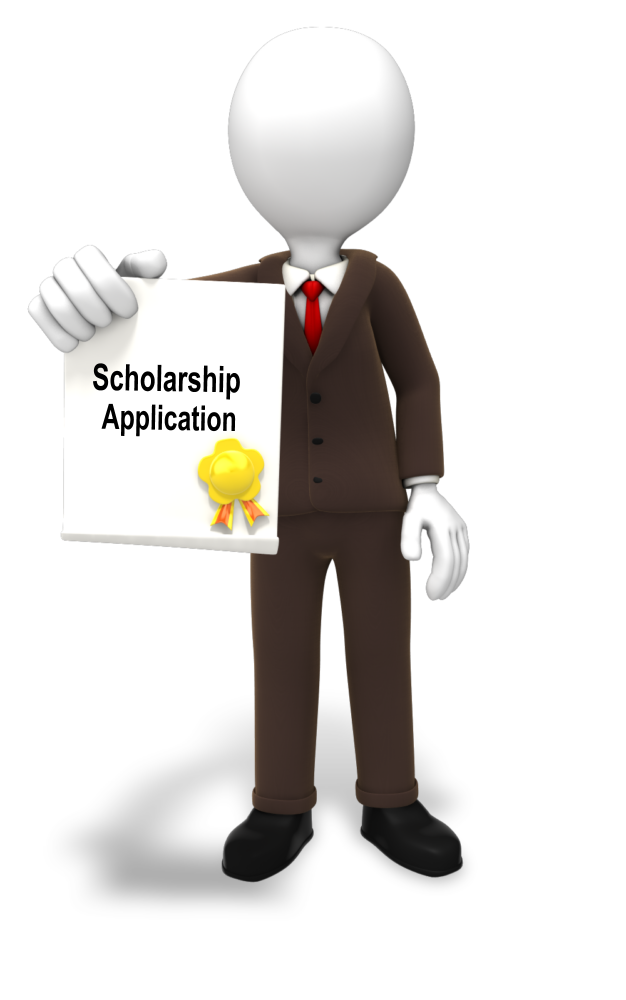
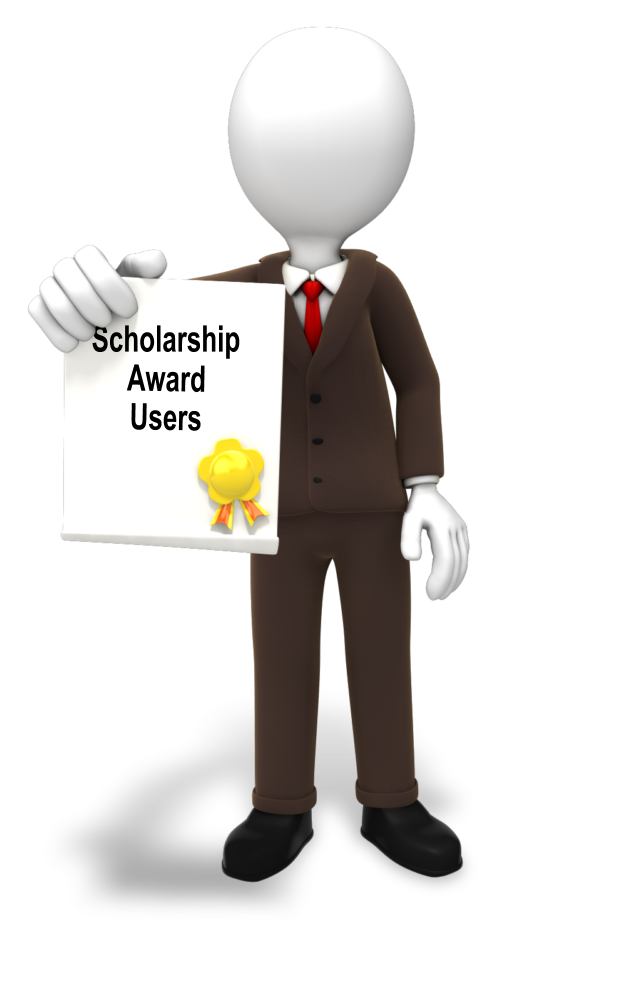
added the image for users

Changed region(s): [[0.1518, 0.31, 0.3946, 0.434]]

diff --git a/README.md b/README.md
@@ -208,4 +208,4 @@ Detail Changes:
 2.  moved image from publics to image folder
 3.  updated landing.html to look at new image folder
 4.  updated all htmls to use css files....i am color blind so if you dont like the color scheme work with me  please
-5.  
+5.  added new images and updated users image page
